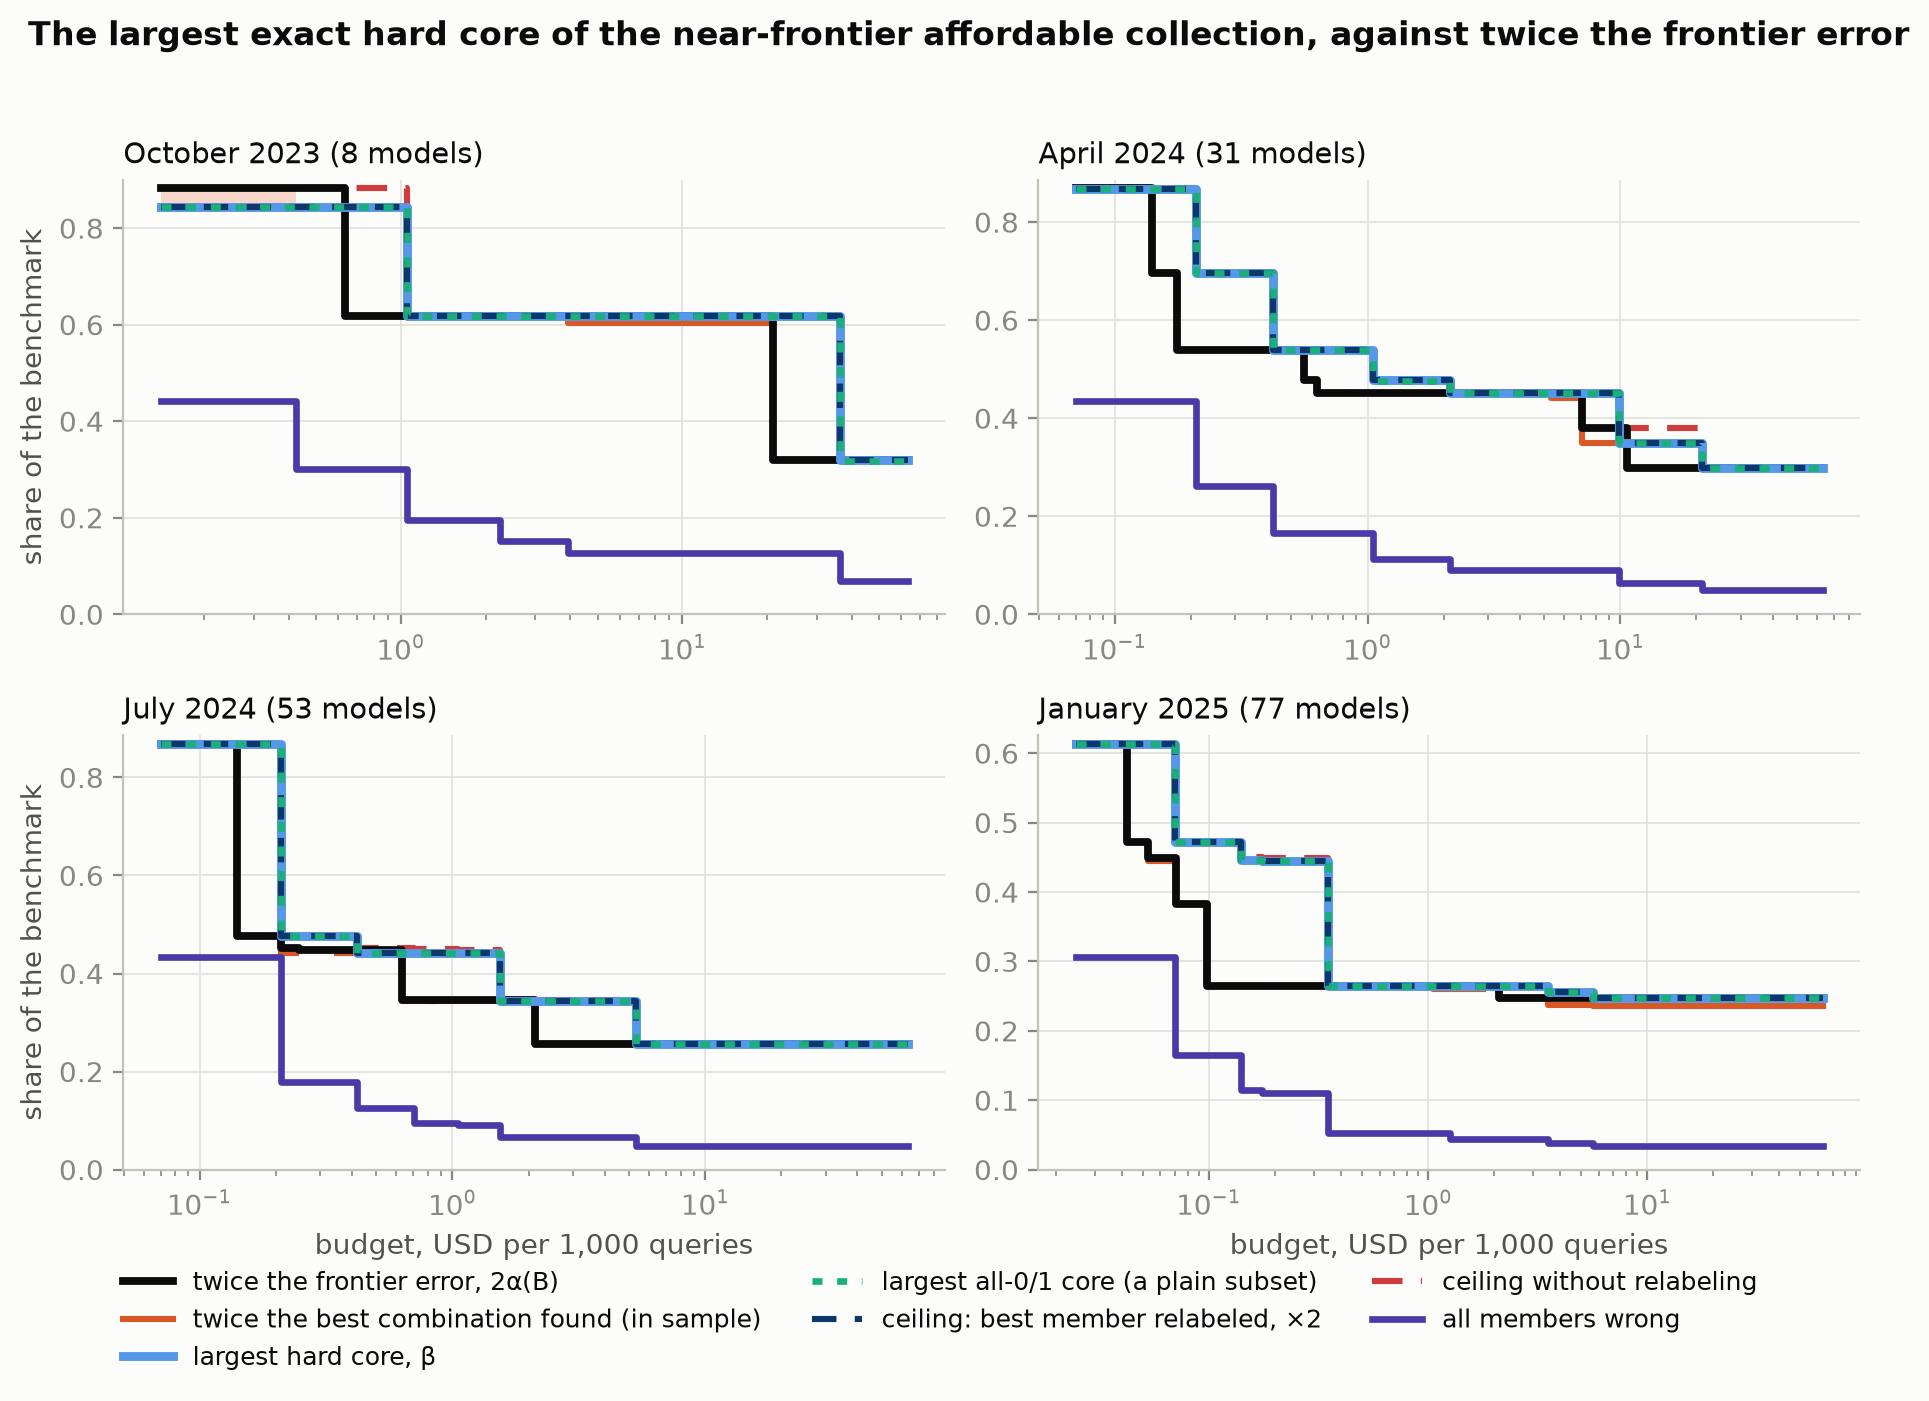
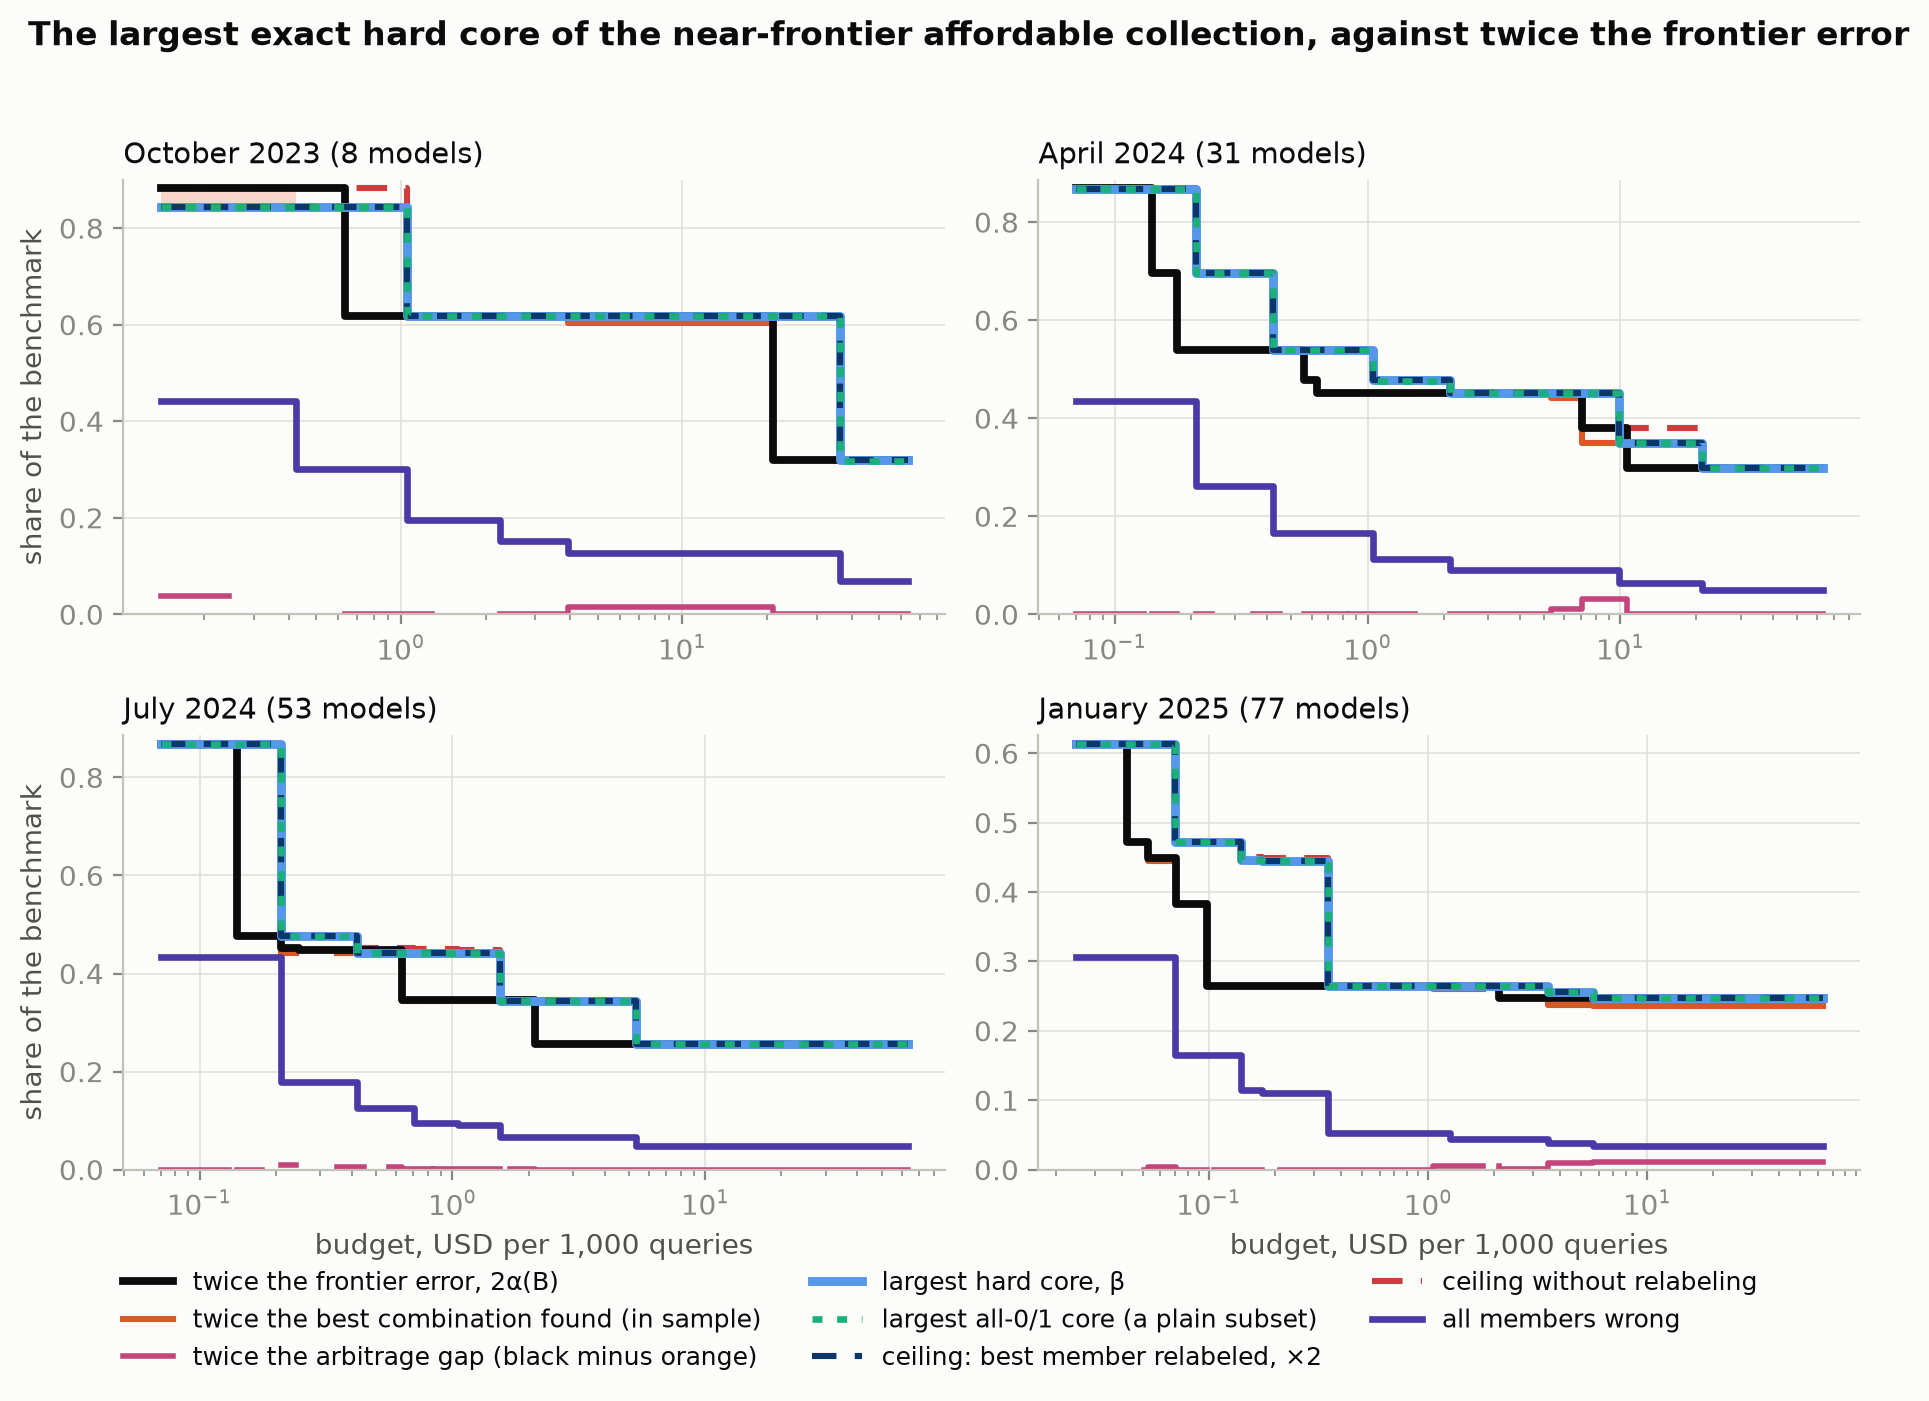
Add the arbitrage-gap line and a click-to-toggle legend

diff --git a/index.html b/index.html
@@ -11,7 +11,7 @@
     --muted: #8b8880; --hairline: #e3e1d8; --grid: #eceae2;
     --accent: #1c5cab; --accent-soft: #e3edf9; --warm: #b34a1e; --warm-soft: #f7e8df;
     --beta: #5598e7; --navy: #0d366b; --red: #d03b3b; --violet: #4a3aa7; --aqua: #0f9166;
-    --arb: #d95926;
+    --arb: #d95926; --magenta: #c3457c;
     --mono: "IBM Plex Mono", ui-monospace, monospace;
   }
   /* This page deliberately commits to a single light look for legibility. */
@@ -75,6 +75,9 @@
     color: var(--secondary); margin: 0 2px 8px; align-items: center; }
   .xw .sw { display: inline-block; width: 20px; height: 0; border-top: 3.5px solid;
     margin-right: 5px; vertical-align: middle; }
+  .xw .lgd { cursor: pointer; user-select: none; border-radius: 4px; padding: 1px 3px; }
+  .xw .lgd:hover { background: var(--grid); }
+  .xw .lgd.off { opacity: 0.38; text-decoration: line-through; }
   .xw .xw-hint { font-size: 12px; color: var(--muted); margin-left: auto; }
   .xw .xw-body { display: flex; gap: 14px; align-items: stretch; flex-wrap: wrap; }
   .xw svg { flex: 1 1 480px; min-width: 0; height: auto; align-self: flex-start; }
@@ -240,7 +243,8 @@
     combination provably beats the frontier, and in every such case it turned out to be one
     model's mishandled answer format. The <b>orange line</b> is twice the error of the best
     combination the search finds at each budget (in sample), so black minus orange is twice the
-    found arbitrage, whether or not the core test certifies it.</figcaption>
+    found arbitrage, whether or not the core test certifies it; the <b>magenta line</b> plots that
+    difference directly.</figcaption>
   </figure>
 
   <h2>Explore all ten markets</h2>
@@ -373,28 +377,53 @@ function initExplorer(root, DATA, opts) {
     bs.forEach((r, i) => { const d = Math.abs(r.b1k - DATA.defaultB1k);
       if (d < best) { best = d; sel = i; } }); }
 
-  const legendRows = [
-    [`twice the ${opts.frontierName || "frontier"} error, 2α(B)`, "--ink", "solid"]]
-    .concat(hasMix ? [[opts.mixLabel || "2α of the doctored menu", "--ink", "dotted"]] : [])
-    .concat([["twice the best combination found, in sample", "--arb", "solid"],
-             ["largest hard core, β", "--beta", "solid"],
-             ["largest all-0/1 core", "--aqua", "dotted"],
-             ["ceiling: best member relabeled, ×2", "--navy", "dashed"],
-             ["ceiling without relabeling", "--red", "dashed"],
-             ["all members wrong", "--violet", "solid"]]);
+  const SERIES = [
+    { key: "twoAlpha", label: `twice the ${opts.frontierName || "frontier"} error, 2α(B)`,
+      c: "--ink", st: "solid", dash: null, w: 3.4 }]
+    .concat(hasMix ? [{ key: "twoAlphaMix", label: opts.mixLabel || "2α of the doctored menu",
+                        c: "--ink", st: "dotted", dash: "2 4", w: 2 }] : [])
+    .concat([
+    { key: "arb2", label: "twice the best combination found, in sample",
+      c: "--arb", st: "solid", dash: null, w: 2.4 },
+    { key: "gap2", label: "twice the arbitrage gap (black minus orange)",
+      c: "--magenta", st: "solid", dash: null, w: 2.2 },
+    { key: "beta", label: "largest hard core, β", c: "--beta", st: "solid", dash: null, w: 3.6 },
+    { key: "betaInt", label: "largest all-0/1 core", c: "--aqua", st: "dotted", dash: "2 4.5", w: 2.6 },
+    { key: "ceil", label: "ceiling: best member relabeled, ×2", c: "--navy", st: "dashed", dash: "6 5", w: 2.4 },
+    { key: "ceilRaw", label: "ceiling without relabeling", c: "--red", st: "dashed", dash: "8 5", w: 2.6 },
+    { key: "allWrong", label: "all members wrong", c: "--violet", st: "solid", dash: null, w: 2.8 }]);
+  const vis = {};
+  SERIES.forEach(s => { vis[s.key] = true; });
+  const PAINT = ["ceilRaw", "allWrong", "gap2", "twoAlpha", "twoAlphaMix", "arb2",
+                 "beta", "ceil", "betaInt"];
+  const val = (r, key) => key === "gap2" ? r.twoAlpha - r.arb2 : r[key];
   const hasCert = bs.some(r => r.cert);
   root.innerHTML =
-    `<div class="xw-legend">${legendRows.map(([t, c, st]) =>
-       `<span><span class="sw" style="border-color:var(${c}); border-top-style:${st}"></span>${t}</span>`).join("")}
+    `<div class="xw-legend">${SERIES.map(s =>
+       `<span class="lgd" data-key="${s.key}" role="button" tabindex="0"
+         title="click to show or hide this line"><span class="sw"
+         style="border-color:var(${s.c}); border-top-style:${s.st}"></span>${s.label}</span>`).join("")}
      <span><span style="color:var(--beta); margin-right:5px; font-size:12px; vertical-align:middle;">▲</span>the selected collection's members, at twice their error</span>
      ${hasCert ? '<span><span style="color:var(--warm); margin-right:5px; font-size:15px; vertical-align:middle;">★</span>the certified combination, at twice its error</span>' : ""}
-     <span class="xw-hint">click a budget &middot; &larr; &rarr; to step</span></div>
+     <span class="xw-hint">click a budget &middot; &larr; &rarr; to step &middot; click a legend entry to toggle its line</span></div>
      <div class="xw-body"><svg viewBox="0 0 ${W} ${H}" role="img"></svg>
      <div class="xw-side"><div class="xcard" data-card="budget"></div>
      <div class="xcard" data-card="frontier"></div><div class="xcard" data-card="collection"></div>
      <div class="xcard" data-card="cert"></div>
      <div class="xcard" data-card="ceiling"></div><div class="xcard" data-card="core"></div></div></div>`;
   const svg = root.querySelector("svg");
+  root.querySelectorAll(".lgd").forEach(lg => {
+    const toggle = () => {
+      const k = lg.dataset.key;
+      vis[k] = !vis[k];
+      lg.classList.toggle("off", !vis[k]);
+      drawChart();
+    };
+    lg.addEventListener("click", toggle);
+    lg.addEventListener("keydown", e => {
+      if (e.key === "Enter" || e.key === " ") { toggle(); e.preventDefault(); e.stopPropagation(); }
+    });
+  });
 
   function el(name, attrs, parent) {
     const e = document.createElementNS(NS, name);
@@ -404,7 +433,7 @@ function initExplorer(root, DATA, opts) {
   function stepPath(key) {
     let p = "";
     bs.forEach((r, i) => {
-      const x = X(r.b1k), y = Y(r[key]);
+      const x = X(r.b1k), y = Y(val(r, key));
       p += (i ? `H${x.toFixed(1)}V${y.toFixed(1)}` : `M${x.toFixed(1)} ${y.toFixed(1)}`);
     });
     return p + `H${X(xmax).toFixed(1)}`;
@@ -429,25 +458,22 @@ function initExplorer(root, DATA, opts) {
                  transform: `rotate(-90 14 ${(MT + H - MB) / 2})`, "text-anchor": "middle"
                }).textContent = "share of the benchmark";
     el("line", { x1: ML, x2: W - MR, y1: Y(0), y2: Y(0), stroke: css("--hairline"), "stroke-width": 1.2 });
-    bs.forEach((r, i) => {
+    if (vis.beta && vis.twoAlpha) bs.forEach((r, i) => {
       if (r.beta < r.twoAlpha - 1e-9) {
         const x2 = (i + 1 < bs.length) ? X(bs[i + 1].b1k) : X(xmax);
         el("rect", { x: X(r.b1k), y: Y(r.twoAlpha), width: x2 - X(r.b1k),
                      height: Y(r.beta) - Y(r.twoAlpha), fill: css("--warm"), opacity: 0.15 });
       }
     });
-    el("path", { d: stepPath("ceilRaw"), fill: "none", stroke: css("--red"), "stroke-width": 2.6,
-                 "stroke-dasharray": "8 5" });
-    el("path", { d: stepPath("allWrong"), fill: "none", stroke: css("--violet"), "stroke-width": 2.8 });
-    el("path", { d: stepPath("twoAlpha"), fill: "none", stroke: css("--ink"), "stroke-width": 3.4 });
-    if (hasMix) el("path", { d: stepPath("twoAlphaMix"), fill: "none", stroke: css("--ink"),
-                             "stroke-width": 2, "stroke-dasharray": "2 4" });
-    el("path", { d: stepPath("arb2"), fill: "none", stroke: css("--arb"), "stroke-width": 2.4 });
-    el("path", { d: stepPath("beta"), fill: "none", stroke: css("--beta"), "stroke-width": 3.6 });
-    el("path", { d: stepPath("ceil"), fill: "none", stroke: css("--navy"), "stroke-width": 2.4,
-                 "stroke-dasharray": "6 5" });
-    el("path", { d: stepPath("betaInt"), fill: "none", stroke: css("--aqua"), "stroke-width": 2.6,
-                 "stroke-dasharray": "2 4.5" });
+    const byKey = {};
+    SERIES.forEach(s => { byKey[s.key] = s; });
+    PAINT.forEach(k => {
+      const s = byKey[k];
+      if (!s || !vis[k]) return;
+      const attrs = { d: stepPath(k), fill: "none", stroke: css(s.c), "stroke-width": s.w };
+      if (s.dash) attrs["stroke-dasharray"] = s.dash;
+      el("path", attrs);
+    });
     bs.forEach((r, i) => {
       el("path", { d: `M${X(r.b1k)} ${H - MB}l-4 7h8z`,
                    fill: i === sel ? css("--accent") : css("--hairline") });
@@ -497,6 +523,7 @@ function initExplorer(root, DATA, opts) {
       [`twice ${fLabel}'s error, 2α`, r.twoAlpha, "--ink", "solid"]]
       .concat(hasMix ? [[opts.mixLabel || "2α of the doctored menu", r.twoAlphaMix, "--ink", "dotted"]] : [])
       .concat([["twice the best combination found, in sample", r.arb2, "--arb", "solid"],
+               ["twice the arbitrage gap (black minus orange)", r.twoAlpha - r.arb2, "--magenta", "solid"],
                ["largest hard core, β", r.beta, "--beta", "solid"],
                ["largest all-0/1 core (subset)", r.betaInt, "--aqua", "dotted"],
                ["ceiling: best member relabeled, ×2", r.ceil, "--navy", "dashed"],
